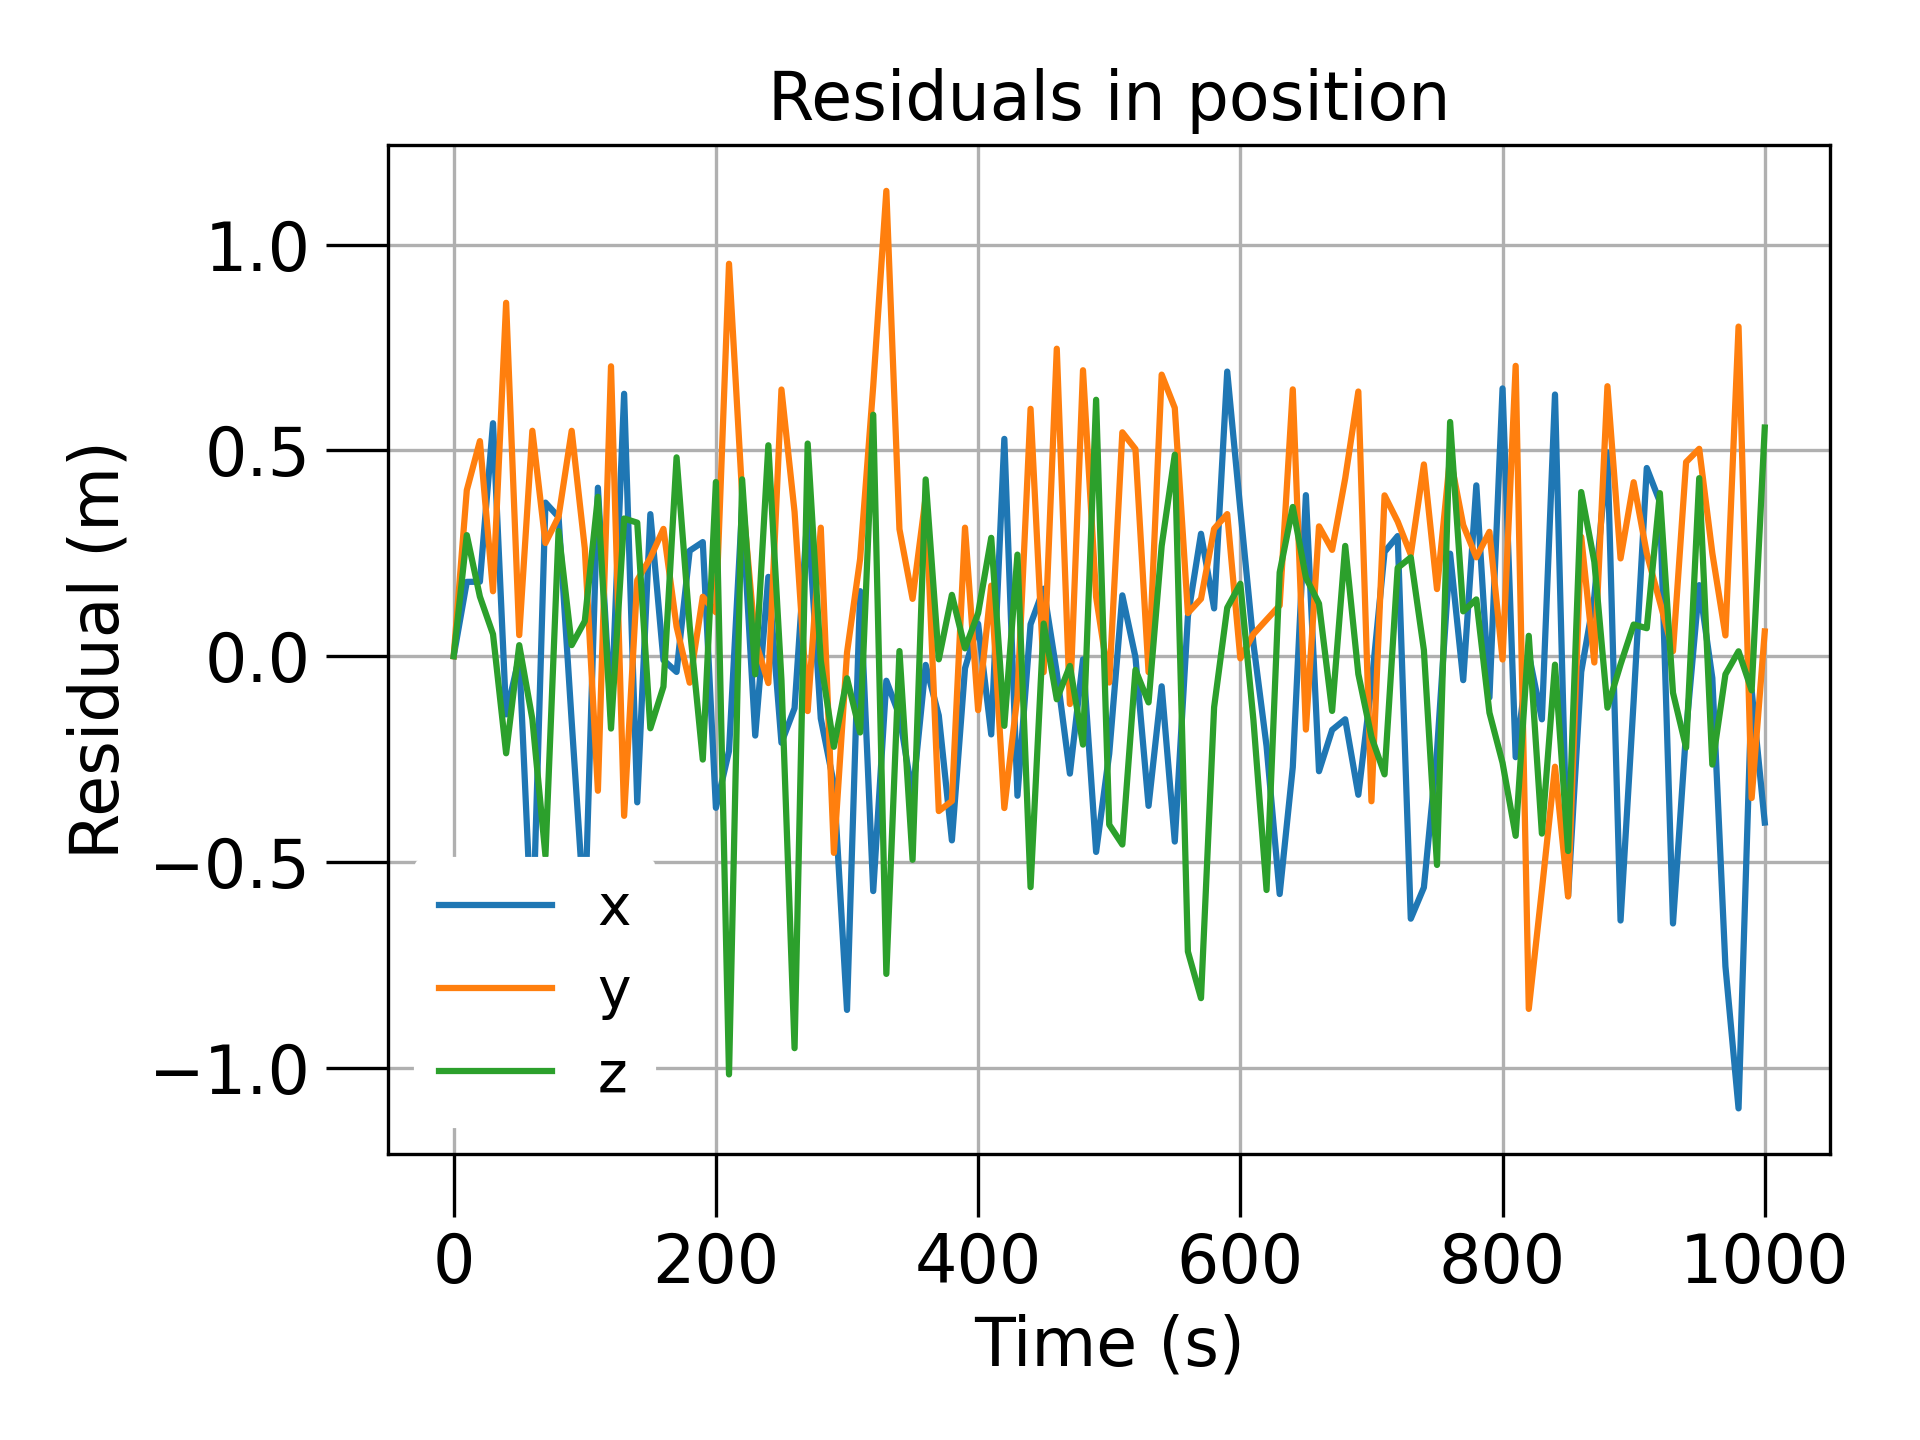
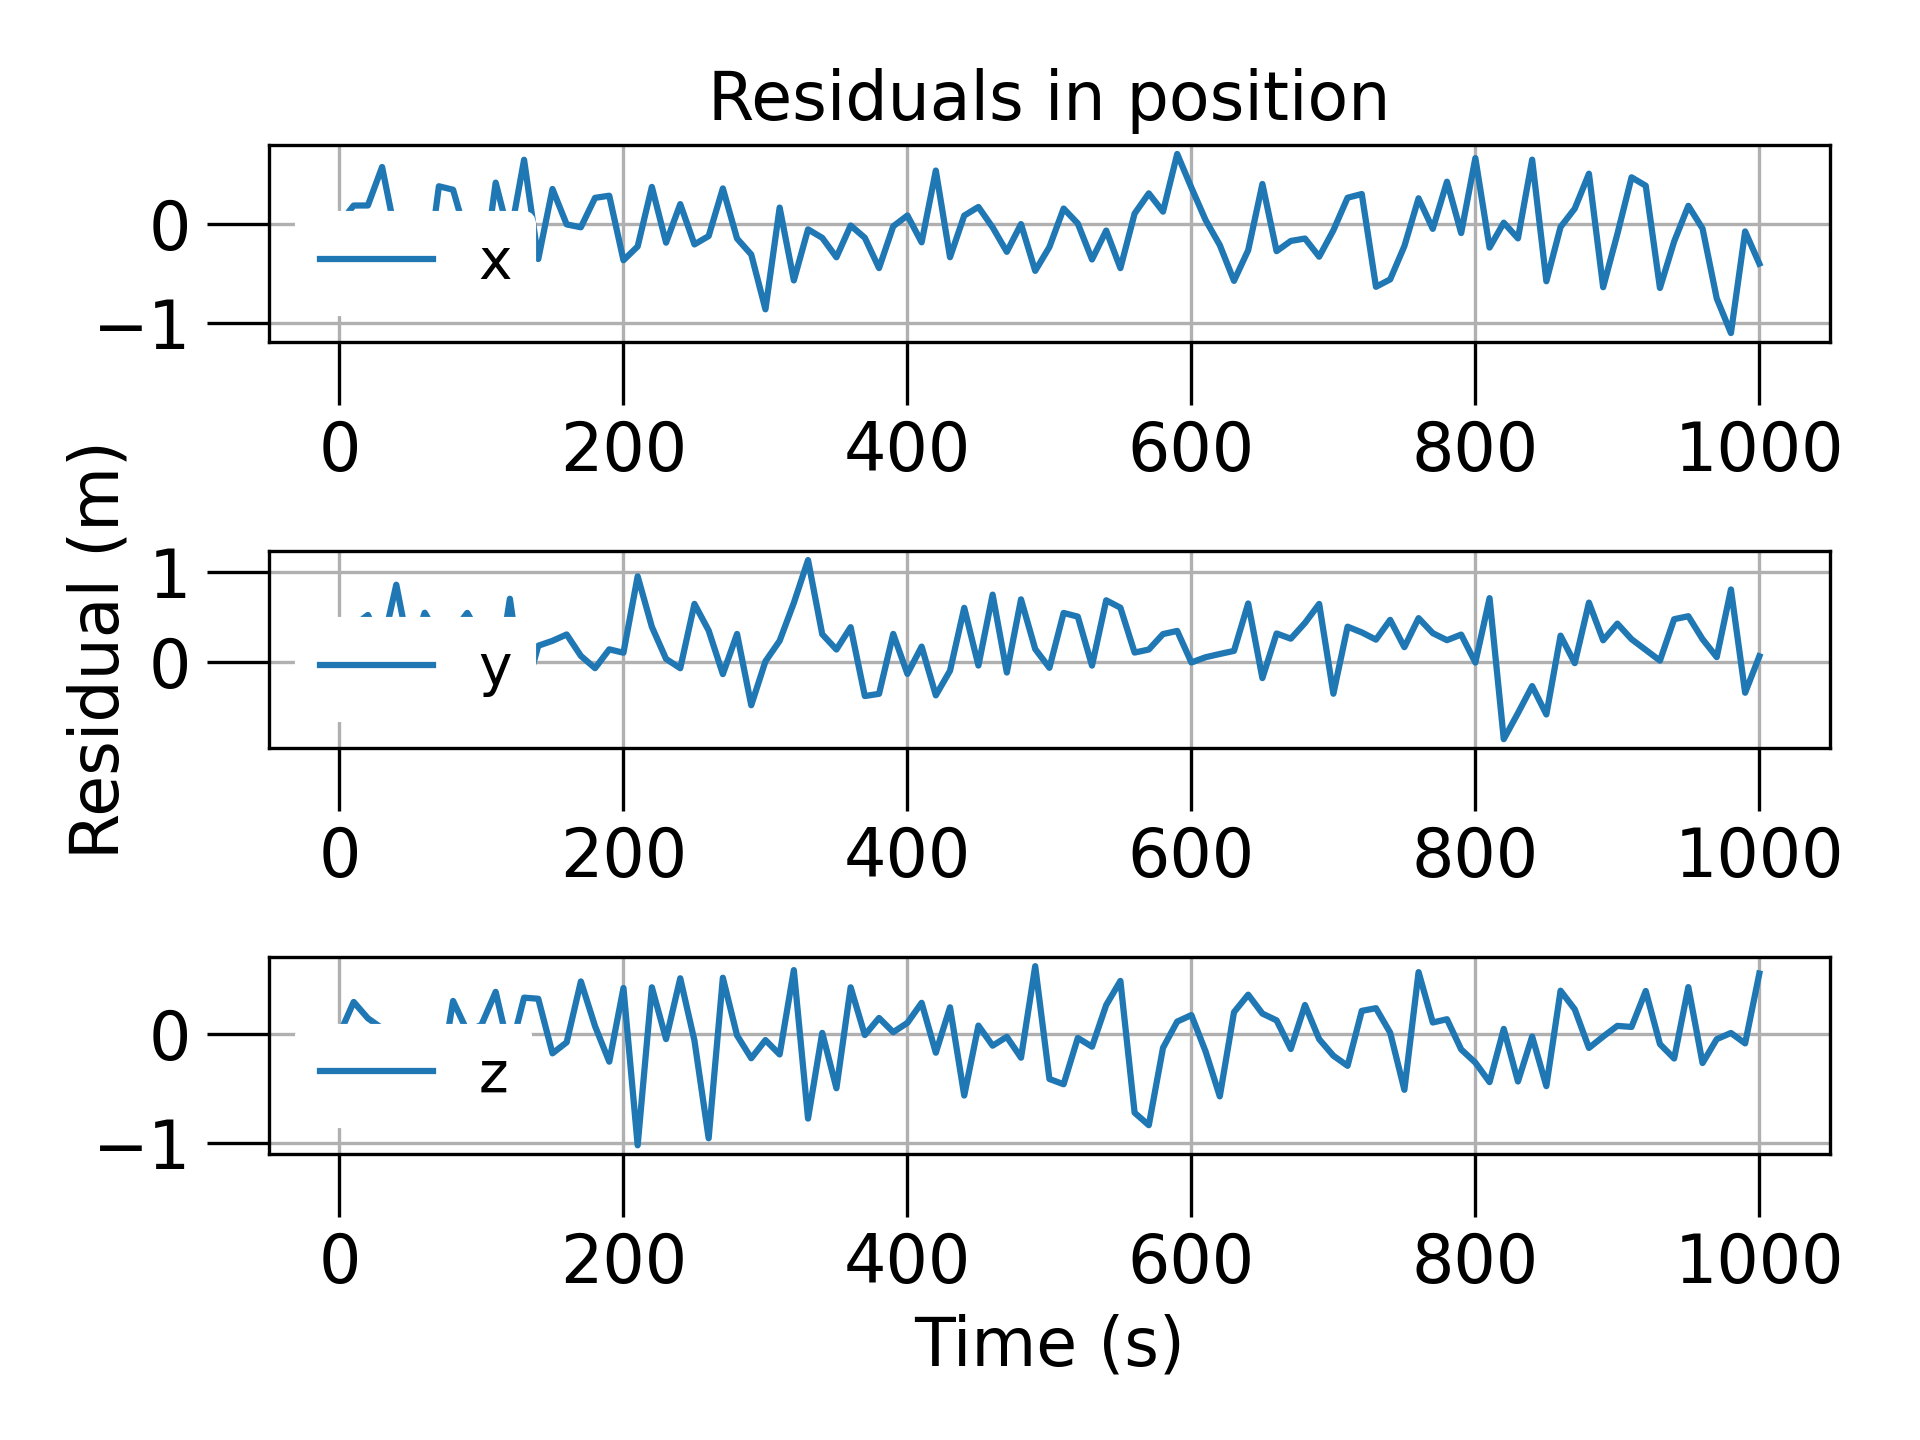
final

diff --git a/position/orbit_simulation.py b/position/orbit_simulation.py
@@ -95,7 +95,9 @@ def orbit_simulation(
     # Simulate the satellite
     r_residuals = [[], [], []]
     v_residuals = [[], [], []]
+    raw_r = [[], [], []]
     time_steps = []    
+    gnss_times = []
     
     for r_true, v_true, t in satellite:
         if t > propagation_time:
@@ -123,8 +125,11 @@ def orbit_simulation(
         v_residuals[1].append(v_true[1] - ekf_v[1])
         v_residuals[2].append(v_true[2] - ekf_v[2])
         
+        # Raw gps measurements
+        
         time_steps.append(t)
     
+    # raw_r = 
     create_od_results(
         r_residuals,
         v_residuals,
@@ -256,7 +261,7 @@ def EKF_algo_function(
             ekf.algorithm.get_state()[:3].flatten(),
             ekf.algorithm.get_state()[3:].flatten(),
             satellite.current_r_eci.flatten(),
-            satellite.current_v_eci.flatten()
+            satellite.current_v_eci.flatten(),
         )
     
     return
@@ -267,7 +272,7 @@ def log_EKF_algo(
     r: np.ndarray,
     v: np.ndarray,
     r_true: np.ndarray,
-    v_true: np.ndarray
+    v_true: np.ndarray,
 ) -> None:
     """Logging function for the OD EKF algorithm
     """
@@ -296,53 +301,56 @@ def create_od_results(
     print(f"z - mean: {np.mean(r_log[2])}\tstd: {np.std(r_log[2])}")
     
     # Plot the residuals
-    r_fig, r_ax = plt.subplots()
     
-    r_ax.plot(time_steps, r_residuals[0], label="x")
-    r_ax.plot(time_steps, r_residuals[1], label="y")
-    r_ax.plot(time_steps, r_residuals[2], label="z")
+    # Plot all on one graph
+    # r_fig, r_ax = plt.subplots()
     
-    r_ax.set_title("Residuals in position")
-    r_ax.set_xlabel("Time (s)")
-    r_ax.set_ylabel("Residual (m)")
+    # r_ax.plot(time_steps, r_residuals[0], label="x")
+    # r_ax.plot(time_steps, r_residuals[1], label="y")
+    # r_ax.plot(time_steps, r_residuals[2], label="z")
     
-    r_ax.legend()
-    r_fig.tight_layout()
+    # r_ax.set_title("Residuals in position")
+    # r_ax.set_xlabel("Time (s)")
+    # r_ax.set_ylabel("Residual (m)")
     
-    r_fig.savefig("4-Plots/od_r_residuals.png")
+    # r_ax.legend()
+    # r_fig.tight_layout()
     
-    # r_ax.plot(time_steps, r_residuals[0])
+    # r_fig.savefig("4-Plots/od_r_residuals.png")
+    
+    rx_fig, rx_ax = plt.subplots(3,1)
+    rx_ax.plot(time_steps, r_residuals[0])
     
     
-    # rx_ax.set_title("Residuals in x")
-    # rx_ax.set_xlabel("Time (s)")
-    # rx_ax.set_ylabel("Residual (m)")
+    rx_ax.set_title("Residuals in x")
+    rx_ax.set_xlabel("Time (s)")
+    rx_ax.set_ylabel("Residual (m)")
     
-    # rx_fig.tight_layout()
+    rx_fig.tight_layout()
     
-    # rx_fig.savefig("4-Plots/od_rx_residuals.png")
+    rx_fig.savefig("4-Plots/od_rx_residuals.png")
     
-    # ry_fig, ry_ax = plt.subplots()
+    ry_fig, ry_ax = plt.subplots()
     
-    # ry_ax.plot(time_steps, r_residuals[1])
+    ry_ax.plot(time_steps, r_residuals[1])
     
-    # ry_ax.set_title("Residuals in y")
-    # ry_ax.set_xlabel("Time (s)")
-    # ry_ax.set_ylabel("Residual (m)")
+    ry_ax.set_title("Residuals in y")
+    ry_ax.set_xlabel("Time (s)")
+    ry_ax.set_ylabel("Residual (m)")
     
-    # ry_fig.tight_layout()
-    # ry_fig.savefig("4-Plots/od_ry_residuals.png")
+    ry_fig.tight_layout()
+    ry_fig.savefig("4-Plots/od_ry_residuals.png")
     
-    # rz_fig, rz_ax = plt.subplots()
+    rz_fig, rz_ax = plt.subplots()
     
-    # rz_ax.plot(time_steps, r_residuals[2])
+    rz_ax.plot(time_steps, r_residuals[2])
     
-    # rz_ax.set_title("Residuals in z")
-    # rz_ax.set_xlabel("Time (s)")
-    # rz_ax.set_ylabel("Residual (m)")
+    rz_ax.set_title("Residuals in z")
+    rz_ax.set_xlabel("Time (s)")
+    rz_ax.set_ylabel("Residual (m)")
     
-    # rz_fig.tight_layout()
-    # rz_fig.savefig("4-Plots/od_rz_residuals.png")
+    rz_fig.tight_layout()
+    rz_fig.savefig("4-Plots/od_rz_residuals.png")
     
     plt.show() 
     return

diff --git a/main.py b/main.py
@@ -35,7 +35,7 @@ def main():
         epoch
     )
 
-    # mainGee(results)
+    mainGee(results)
 
     return 0
 
